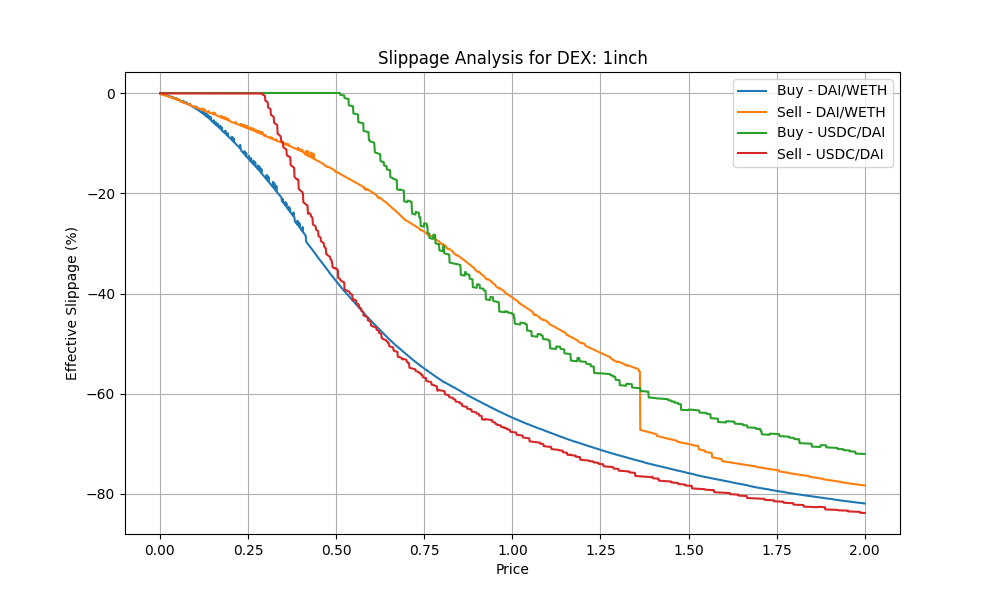
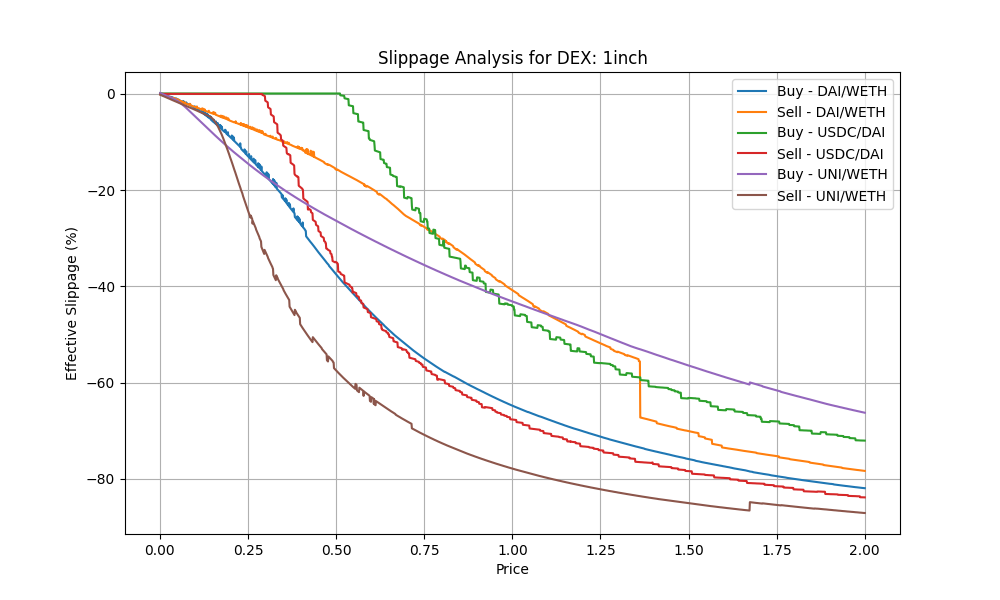
chore: another pair on 1inch

diff --git a/liquidity-slippage/scripts/1inch-slip.js b/liquidity-slippage/scripts/1inch-slip.js
@@ -8,7 +8,7 @@ const { amountTradeXSlippage } = require("../utils/common");
 dotenv.config({ path: path.resolve(__dirname, "../.env") });
 const ONEinch_API_KEY = process.env.ONEinch_API_KEY;
 
-const DATA_INDEX = 0;
+const DATA_INDEX = 2;
 
 const DEX = "1inch";
 const quoteApiUrl = "https://api.1inch.dev/swap/v5.2/1/quote";
